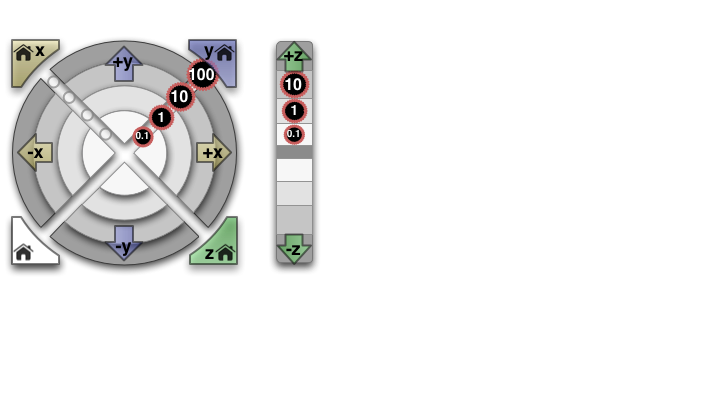
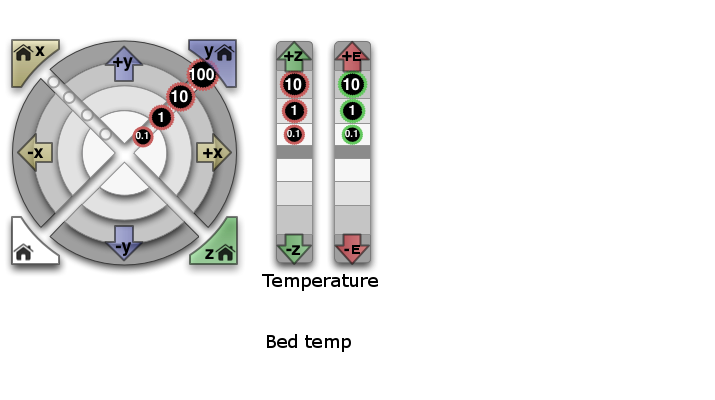
Add temperature and extruder control to pronterface UI.

Changed region(s): [[0.3692, 0.09, 0.5538, 0.72], [0.3692, 0.84, 0.4923, 0.87]]

diff --git a/Cura/gui/printWindow.py b/Cura/gui/printWindow.py
@@ -52,6 +52,7 @@ class printWindowPlugin(wx.Frame):
 			'addTemperatureGraph': self.script_addTemperatureGraph,
 			'addProgressbar': self.script_addProgressbar,
 			'addButton': self.script_addButton,
+			'addSpinner': self.script_addSpinner,
 
 			'sendGCode': self.script_sendGCode,
 			'connect': self.script_connect,
@@ -130,6 +131,19 @@ class printWindowPlugin(wx.Frame):
 		button.data = data
 		self._buttonList.append(button)
 		self.Bind(wx.EVT_BUTTON, lambda e: command(data), button)
+
+	def script_addSpinner(self, r, g, b, command, data):
+		x, y, w, h = self._getColoredRect(r, g, b)
+		if x < 0:
+			return
+		spinner = wx.SpinCtrl(self, -1, style=wx.TE_PROCESS_ENTER)
+		spinner.SetRange(0, 300)
+		spinner.SetPosition((x, y))
+		spinner.SetSize((w, h))
+		spinner.command = command
+		spinner.data = data
+		self._buttonList.append(spinner)
+		self.Bind(wx.EVT_SPINCTRL, lambda e: command(data % (spinner.GetValue())), spinner)
 
 	def _getColoredRect(self, r, g, b):
 		for x in xrange(0, self._mapImage.GetWidth()):

diff --git a/plugins/PronterfaceUI/script.py b/plugins/PronterfaceUI/script.py
@@ -33,10 +33,20 @@ addColorCommand(180, 0, 0, sendGCode, "G91; G1 Z-0.1 F200; G90")
 addColorCommand(160, 0, 0, sendGCode, "G91; G1 Z-1 F200; G90")
 addColorCommand(140, 0, 0, sendGCode, "G91; G1 Z-10 F200; G90")
 
+addColorCommand(255, 180, 0, sendGCode, "G91; G1 E10 F120; G90")
+addColorCommand(255, 160, 0, sendGCode, "G91; G1 E1 F120; G90")
+addColorCommand(255, 140, 0, sendGCode, "G91; G1 E0.1 F120; G90")
+addColorCommand(255, 120, 0, sendGCode, "G91; G1 E-0.1 F120; G90")
+addColorCommand(255, 100, 0, sendGCode, "G91; G1 E-1 F120; G90")
+addColorCommand(255,  80, 0, sendGCode, "G91; G1 E-10 F120; G90")
+
 addColorCommand(255, 255, 0, sendGCode, "G28")
 addColorCommand(240, 255, 0, sendGCode, "G28 X0")
 addColorCommand(220, 255, 0, sendGCode, "G28 Y0")
 addColorCommand(200, 255, 0, sendGCode, "G28 Z0")
+
+addSpinner(180, 0, 160, sendGCode, "M104 S%d")
+addSpinner(180, 0, 180, sendGCode, "M140 S%d")
 
 addTerminal(255, 0, 255)
 addTemperatureGraph(180, 0, 255)
